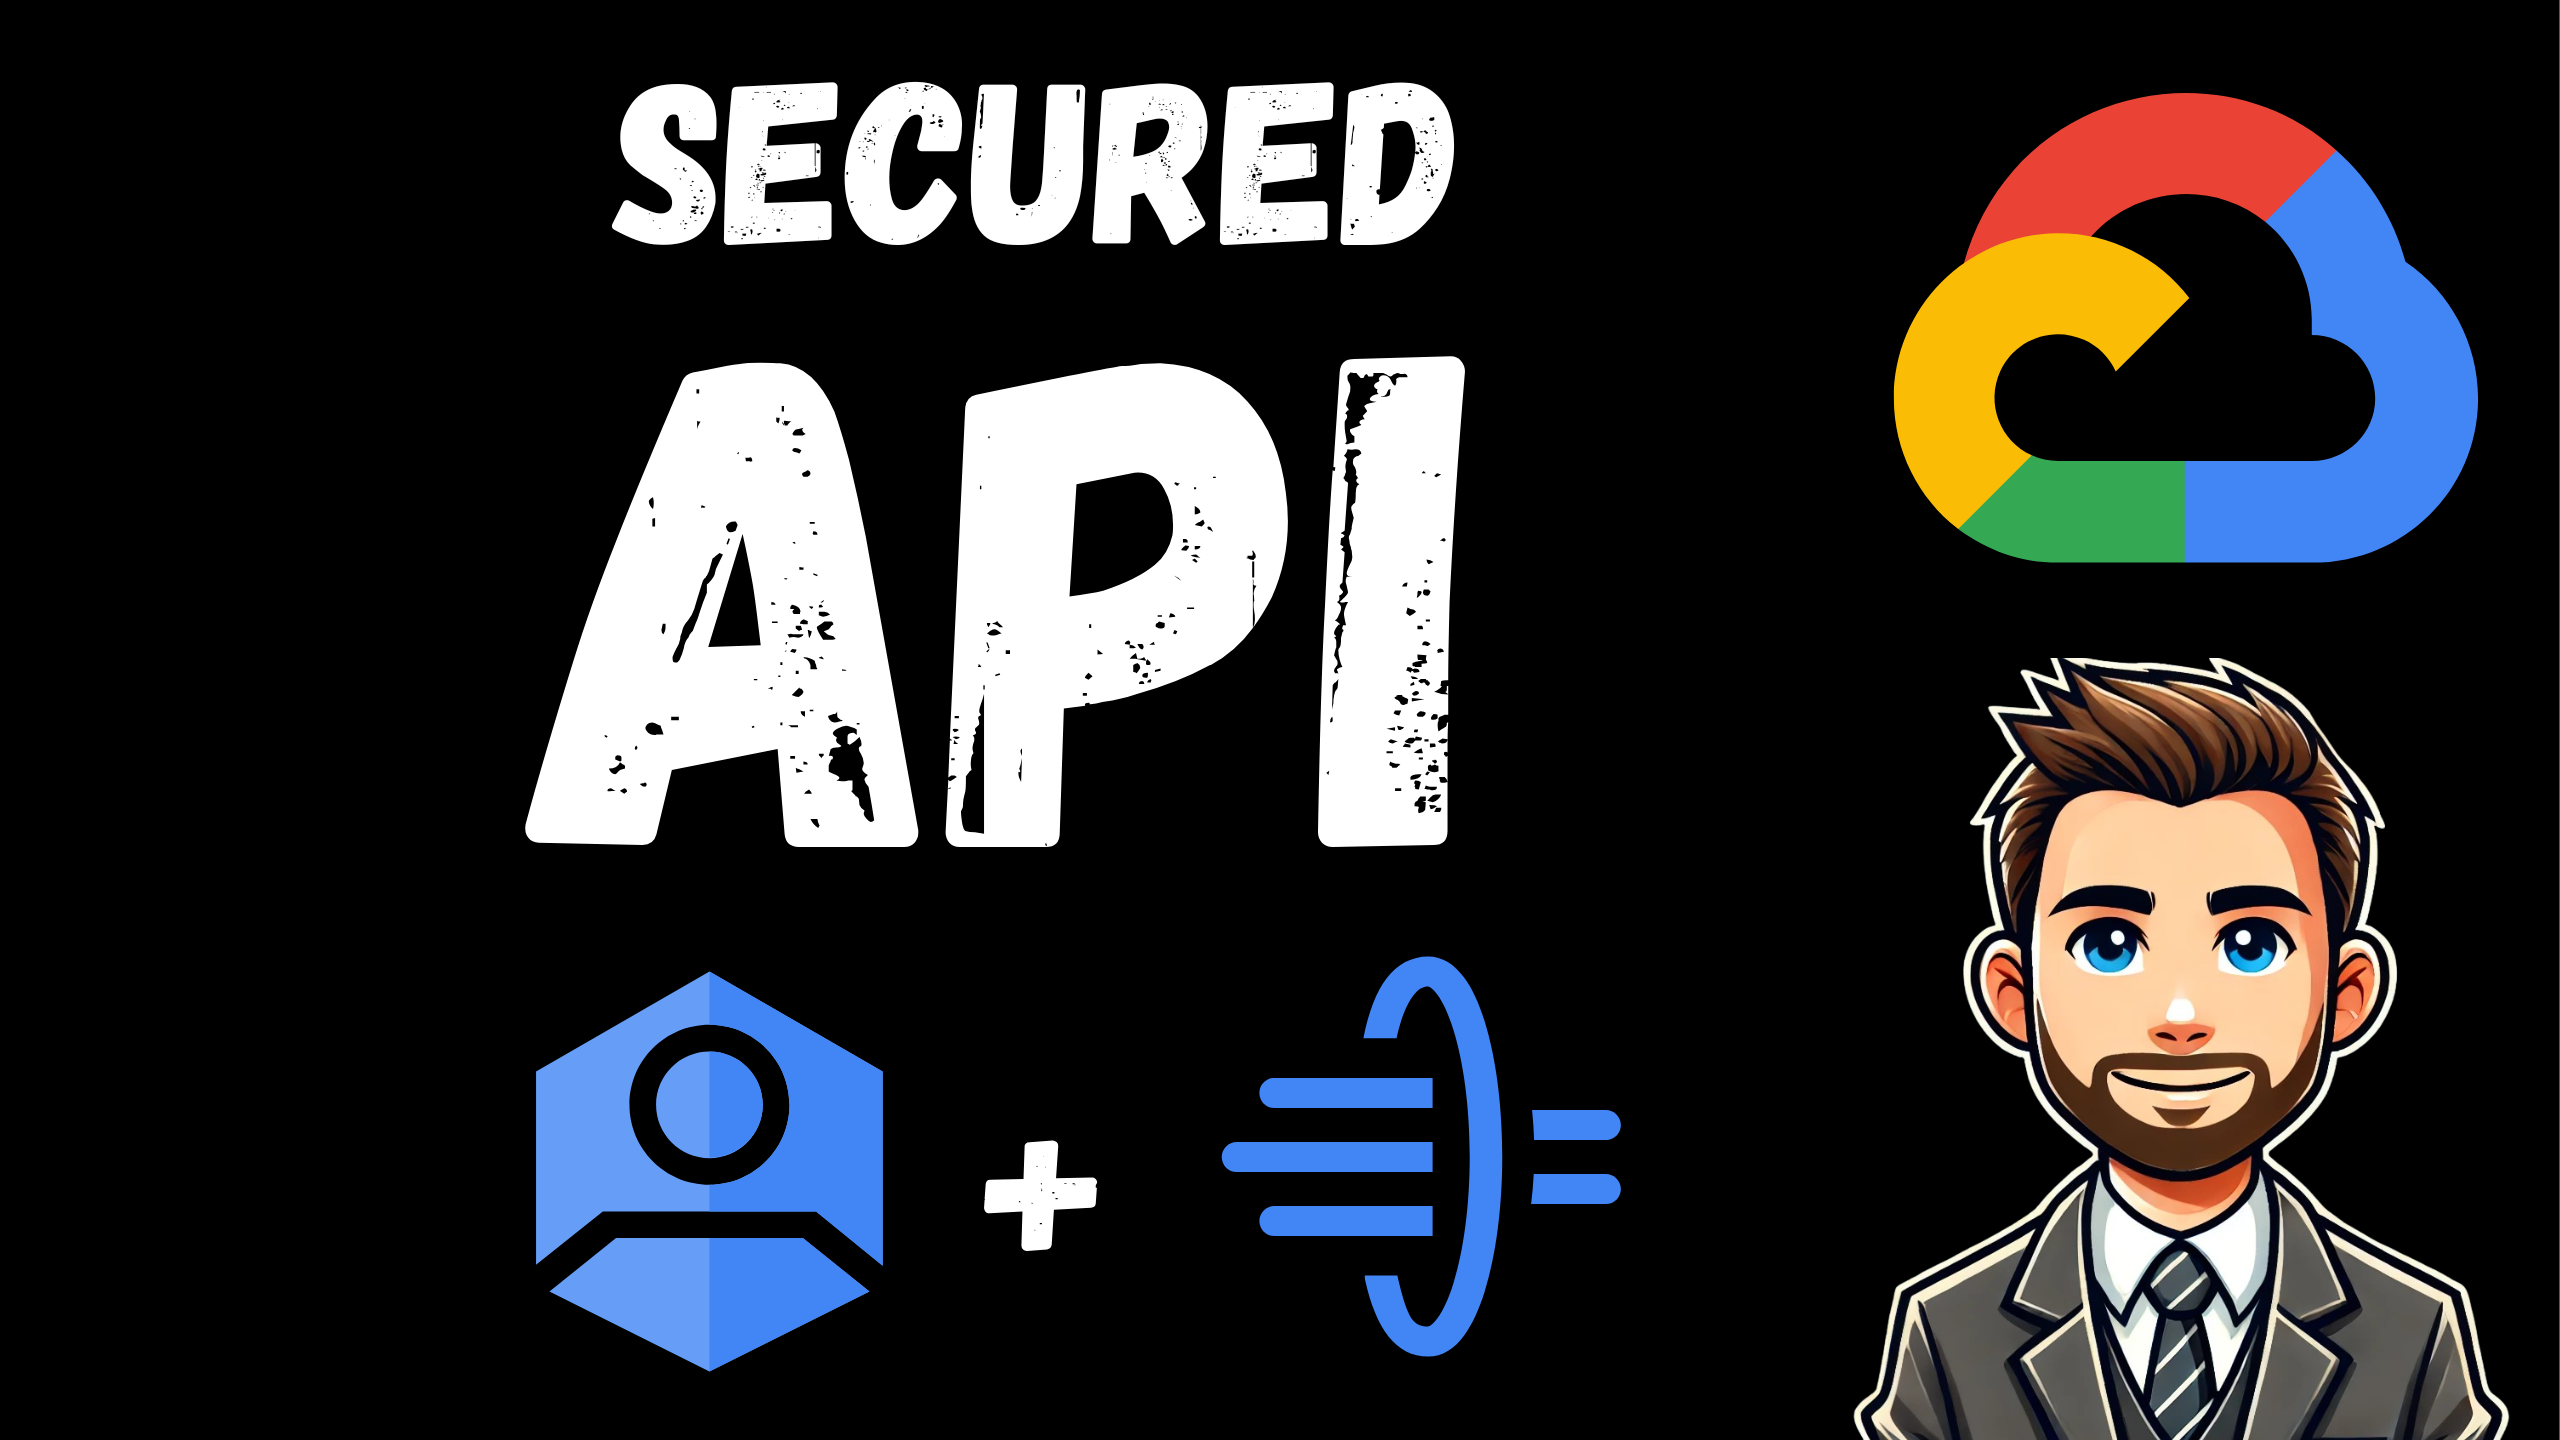
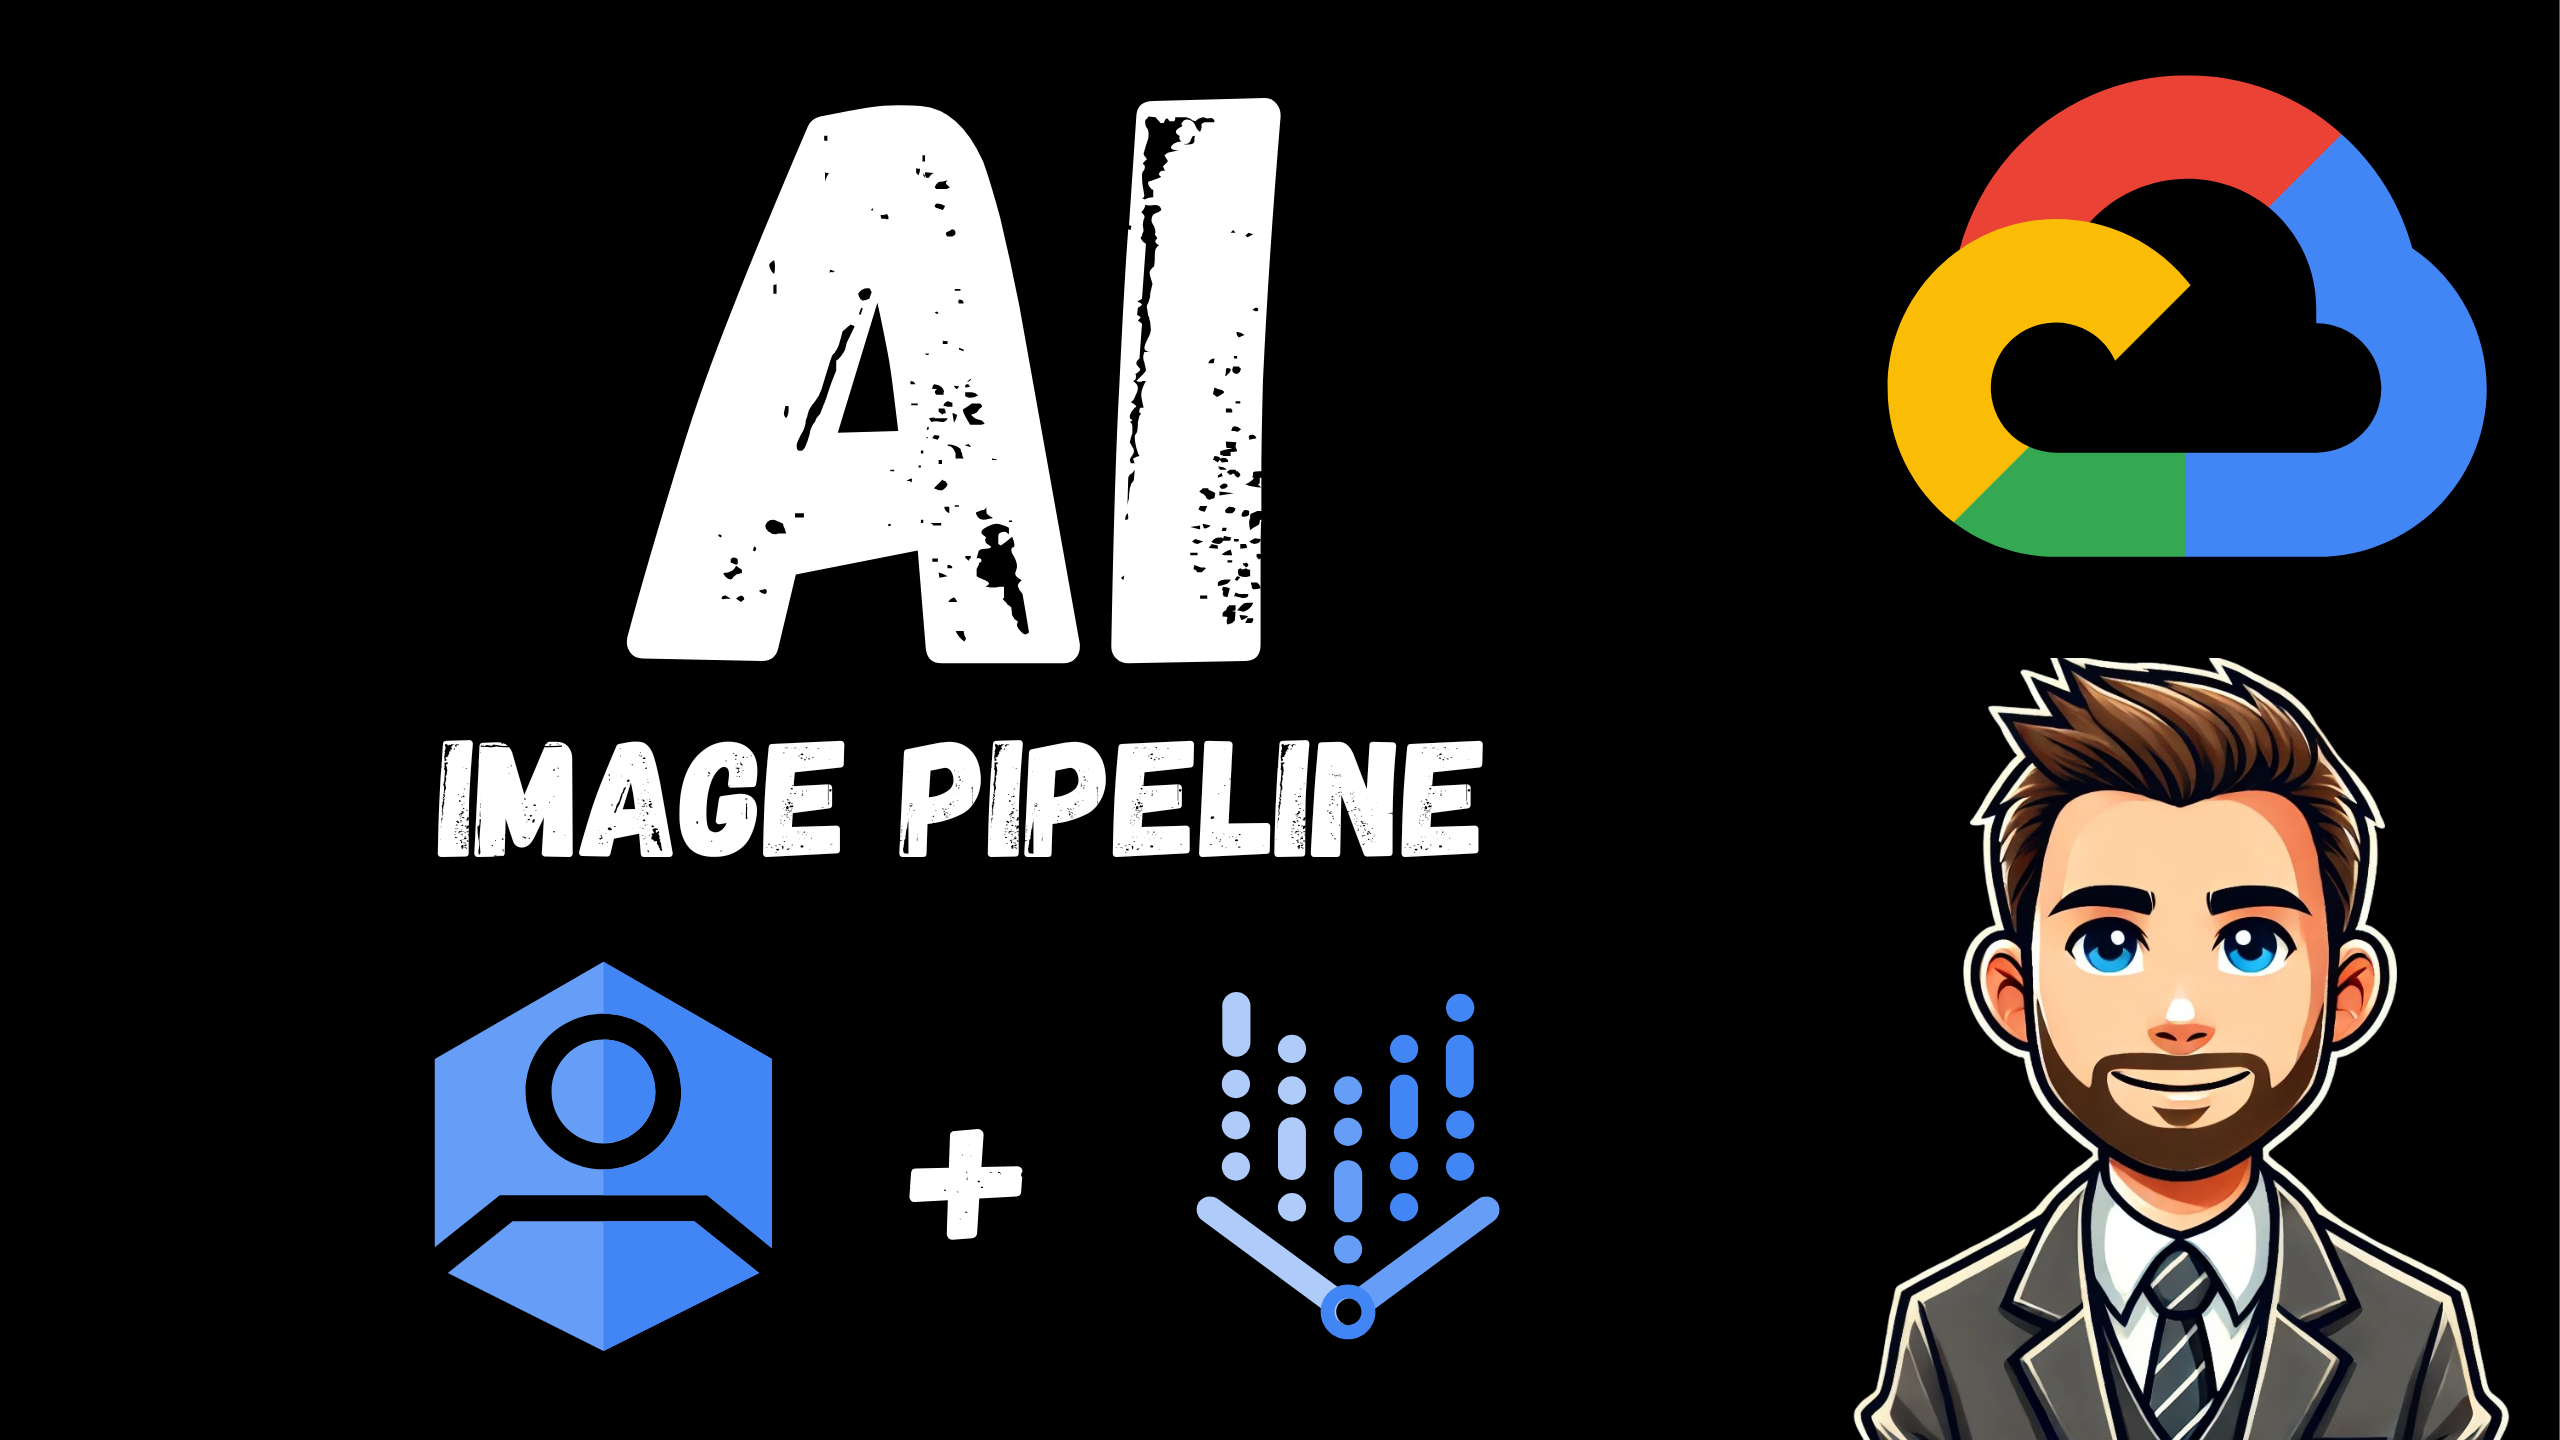
finalize video

diff --git a/00-resources/VIDEO.md b/00-resources/VIDEO.md
@@ -1,37 +1,40 @@
-#GCP #Serverless #CloudFunctions #Firestore #Terraform #Python #IdentityPlatform #APIGateway
+#GCP #Serverless #CloudFunctions #VertexAI #PubSub #Firestore #APIGateway #IdentityPlatform #Terraform #Python #GenerativeAI
 
-*Secure Serverless API on Google Cloud (Identity Platform + API Gateway)*
+*Build an AI Image Pipeline on GCP (Vertex + Cloud Functions + Pub/Sub)*
 
-Deploy a fully authenticated serverless notes API on Google Cloud Platform using Terraform, Cloud Functions 2nd Gen, Firestore, and Cloud API Gateway. Users sign in via Identity Platform (Firebase Auth), and every API request is validated against a Firebase JWT before reaching the Cloud Function — with data scoped per user at the Firestore layer.
+Turn any photo into a cartoon using a fully serverless, event-driven pipeline on GCP — provisioned with Terraform and deployed with a single script. Users sign in with Firebase email/password (Identity Platform), upload a photo, pick a cartoon style, and a Pub/Sub-driven worker invokes Vertex AI Imagen with subject-reference prompting to generate a stylized portrait. Originals and cartoons are stored privately in GCS and served through short-lived V4 signed URLs.
 
-In this project we build a secure REST API with full Create, Read, Update, and Delete support — protected by real JWT authentication, deployed with a single script, and tested through a browser-based SPA with no server to manage.
+In this project we build an asynchronous AI image-processing pipeline from scratch — the browser uploads directly to GCS via a V4 signed PUT URL, Pub/Sub decouples the slow Imagen inference call from the API response, and a Cloud Function running Pillow normalizes the photo before sending it to Vertex AI. The whole thing runs without a single VM.
 
 WHAT YOU'LL LEARN
-• Enabling GCP Identity Platform and configuring email/password sign-in via the REST API
-• Issuing browser API keys scoped to identitytoolkit.googleapis.com with google_apikeys_key
-• Defining a Cloud API Gateway with an OpenAPI spec that validates Firebase JWT tokens
-• Forwarding decoded JWT claims to a private Cloud Function via X-Apigateway-Api-Userinfo
-• Scoping Firestore reads and writes to the authenticated user's UID (sub claim)
-• Hosting a static SPA on a public GCS bucket with runtime config loaded from config.json
+• Invoking Vertex AI Imagen (imagen-3.0-capability-001) with SubjectReferenceImage for person likeness preservation
+• Using Pub/Sub + Eventarc to decouple a slow AI inference call from a synchronous API response
+• Consolidating multiple API routes into a single Cloud Function with internal path routing
+• Implementing Firebase email/password auth (Identity Platform) in a static SPA
+• Attaching a JWT authorizer to API Gateway (validating Firebase ID tokens)
+• Generating V4 signed PUT URLs for direct browser-to-GCS upload
+• Enforcing per-user daily quotas with a Firestore range query
+• Managing Firestore composite indexes outside Terraform to avoid async lifecycle conflicts
 
 INFRASTRUCTURE DEPLOYED
-• Cloud Function (2nd Gen, Python 3.11, HTTP trigger, private — invoked only by gateway SA)
-• Cloud API Gateway with OpenAPI 2.0 spec (Firebase JWT securityDefinitions)
-• Identity Platform (email/password sign-in, Firebase JS SDK)
-• GCS bucket for function source code (zip archive, content-addressed)
-• Firestore database (Native mode, us-central1)
-• Service accounts: notes-sa (Firestore), notes-gateway-sa (Cloud Run invoker)
-• GCS bucket hosting a static web frontend
+• Identity Platform (Firebase Auth) with email/password sign-in
+• API Gateway with Firebase JWT authorizer (validates against Identity Platform JWKS)
+• Single zip-packaged API Cloud Function (Python 3.12): upload-url, generate, result, history, delete
+• Worker Cloud Function (512 MB, 300 s timeout) triggered by Pub/Sub via Eventarc
+• Pub/Sub topic (cartoonify-jobs) with dead-letter policy
+• Firestore (Native mode) with composite indexes for history and quota queries
+• GCS web bucket (public SPA hosting) + GCS media bucket (private, 7-day lifecycle)
+• IAM service accounts scoped per function — API role cannot invoke Vertex AI; worker role cannot delete
 
 GitHub
-https://github.com/mamonaco1973/gcp-identity-app
+https://github.com/mamonaco1973/gcp-cartoonify
 
 README
-https://github.com/mamonaco1973/gcp-identity-app/blob/main/README.md
+https://github.com/mamonaco1973/gcp-cartoonify/blob/main/README.md
 
 TIMESTAMPS
 00:00 Introduction
-00:15 Architecture
-00:40 Build the Code
-00:56 Build Results
-01:39 Demo
+00:14 Architecture
+00:49 Build the Code
+01:04 Build Results
+01:48 Demo

diff --git a/00-resources/video-script.md b/00-resources/video-script.md
@@ -4,47 +4,63 @@
 
 ## Introduction
 
-[ Show web application log in ]
+[ Opening Sequence ]
 
-Do you need a secure, serverless API on Google Cloud?
+“Do you want to build an AI-powered image pipeline on Google Cloud?”
 
-[ Architecture diagram — walk through it left to right: browser, Cloud Storage, Cloud Function, Firestore ]
+[ Show Diagram ]
 
-In this project, we build a secure notes API using Cloud Functions, Firestore, API Gateway, and Google's Identity Platform.
+"In this project, we build a fully serverless pipeline that turns photos into cartoons using Google Cloud and Vertex."
 
-[Terminal running apply.sh — Terraform output flying by, ending with the website URL ]
+[ Build B Roll ]
 
-Follow along and in minutes you'll have a secured serverless API running in Google Cloud.
+Follow along and in minutes you’ll have a fully working AI pipeline running on Google Cloud.
 
 ---
-
-## Architecture
 
 [ Full diagram ]
 
 "Let's walk through the architecture before we build."
 
-[ Highlight Browser + Identity Platform ]
+[ Diagram then Congito ]
 
-“The user signs in with Identity Platform, and the browser receives a bearer token for API calls”
+"First, the user signs into the web application using Google's Identity Platform.
 
-[ Highlight Browser to Gateway ]
+[ Choose File then Diagam ]
 
-“That token goes with each call to the API Gateway.”
+"When the user selects “Choose File”, the image is uploaded to the media bucket."
 
-[ Highlight Gateway ]
+[  Cartoonify ]
 
-“The gateway validates the token before calling the Cloud Functions.
+When the user selects “Cartoonify”, the API does two things:
 
-[ Highlight Cloud Function ]
+[ Highlight Firebase]
 
-“The Cloud Functions are the API compute layer and are implemented in Python.
+It creates a job record in Firebase.
 
+[ Highlight Pub/Sub queue ]
 
-[ Highlight Firestore ]
+Then it sends a message to the image processing Pub-Sub topic.
 
-"Firestore stores the notes data, isolated per user.”
+[ Highlight Lambda ]
 
+"Pub-Sub triggers the worker cloud function."
+
+[ Show bedrock ]
+
+"The worker calls Vertex to generate the cartoon."
+
+[ Show S3 Media Bucket]
+
+"The generated image is written back to media bucket.
+
+[ Final Firebase State]
+
+When processing completes, the job status is updated in Firebase.
+
+[ Show final result ]
+
+The web application refreshes and displays the generated image.
 ---
 
 ## Build the Code
@@ -122,48 +138,18 @@ Firestore stores the notes, scoped to the authenticated user by the owner field
 
 ## Demo
 
-[ Browser — Notes Demo, open DevTools → Network tab ]
+Navigate to the web application URL
 
-"When the application loads we are prompted to login."
+Sign in using the Identity Platform.
 
-[ Sign In ]
+Select “Choose File” and upload a test image.
 
-Sign in with an existing account — or create one here.
+Select the “Pixar 3D” style, then click “Cartoonify” to start the image generation pipeline.
 
-[ Show redirect link ]
+The application displays the image generation lifecycle in the left hand panel.
 
-The Identity Platform re-directs back to callback.html. The page exchanges the authorization code for tokens.
+When processing completes, the application refreshes and shows the result.
 
-[ Show initial state ]
+Now try some different styles.
 
-We're now authenticated into the app. Open the browser debugger so we can watch the API calls.
-
-[  Create a new note ]
-
-Create a new note.
-
-[ Show create API call with bearer token ]
-
-"A POST is made with the JWT as a Bearer token."
-
-[ Editing and clicking Save ]
-
-"Now update the note."
-
-[ Show network tab ]
-
-"The PUT call is made with the Bearer token set."
-
-[ Delete prompt ]
-
-"Delete the Note".
-
-[ Show network tab ]
-
-'The DELETE call is made with the Bearer token set."
-
-[ Browser — empty list ]
-
-"In this demo we've exercised every API endpoint — all secured with JWT bearer tokens."
-
----
+The application displays a gallery of your previous results.
